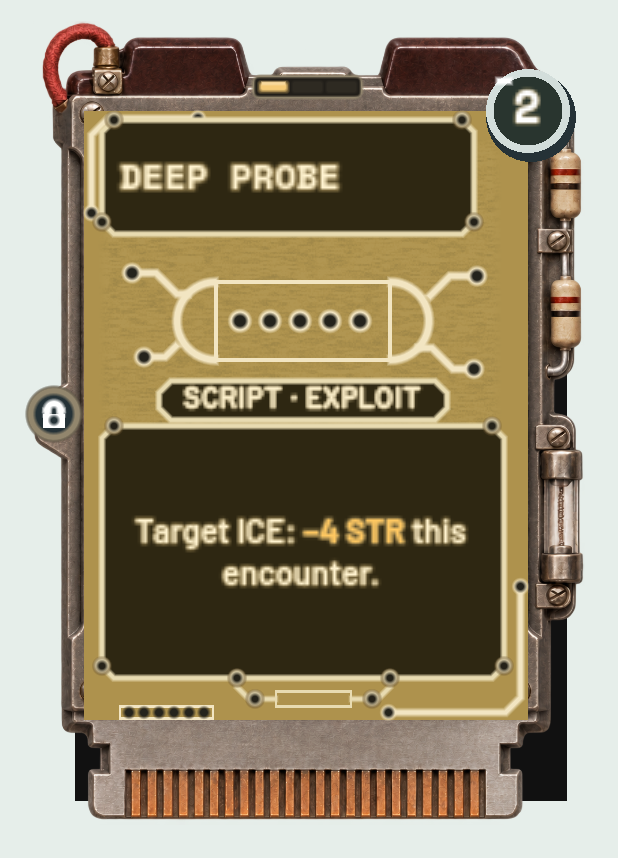
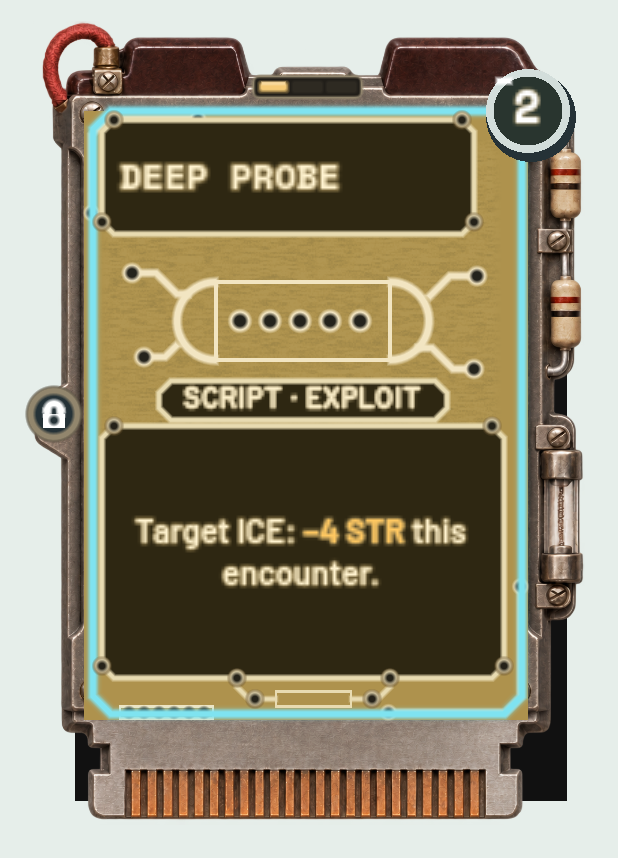
CARDS-002: cyan cache edge glow (review branch only)
Cached cards glow icy cyan #7FE3F0 along the board edge: solid when
held until played, dashed for a temporary cache. Drawn beneath the BW
cost, title and text panels; the ear padlock stays as the shape cue.
Fixture asserts presence, style, panel clearance and draw order.
Preview 0 failures at 3x and 1x; rules 361/0, ADP 17/0, SIGNAL/CARBON 671/0.

Claude-Session: https://claude.ai/code/session_019hKEHwHgBfGqbFMUM3xZXY

Changed region(s): [[0.123, 0.1212, 0.8608, 0.8485]]

diff --git a/docs/visual/fixtures/cards-002/README.md b/docs/visual/fixtures/cards-002/README.md
@@ -4,7 +4,7 @@
 
 **Status:** Design review, 2026-11-19. The fifth design is an alternate Rustler cartridge treatment. The review source is isolated from the playable build.
 
-![Glow study: text on dark solder-mask panels over the mustard board](iterations/PANOPTICON_Mustard_PCB_05_Glow_Mask.jpg)
+![Glow study with the cyan cache edge glow (bottom left: held; bottom middle: temporary)](iterations/PANOPTICON_Mustard_PCB_05_Cache_Edge_Glow.jpg)
 
 ## Current review version — glow study (2026-11-19, PROPOSED)
 
@@ -17,7 +17,7 @@ The designer found that dark text on bare mustard lacked contrast and asked whet
 - **Type stamp:** Routed Gothic, one centred line (`SCRIPT · EXPLOIT`) at 9 px, falling to 8 px if needed, on a small pill-shaped mask plate. The plate has no plated holes, so nothing touches the letters.
 - **Rules:** Barlow SemiBold, centred in a fixed 134 × 84 mask panel with traces, plated holes and the empty resistor footprint, at 11 px down to a 9 px floor. Numbers and their units are **Barlow Bold in phosphor amber** `#FFC861` (9.7:1 on the mask).
 - **Rarity:** a recessed light in the top exterior of the cartridge with three cells, filled left to right: one for Common, two for Uncommon, three for Rare. The card face omits the written rarity; the hover tooltip still names it.
-- **Cached** is never printed on the card. A padlock indicator is mounted on the cartridge's left ear, outside the board. A card held until played has a solid rim. A temporary cache breaks the rim into segments, one lit per remaining turn. The hover tooltip reads `CACHED` or `CACHED · TEMP (n turns)`.
+- **Cached** is never printed on the card. The board edge glows **icy cyan** `#7FE3F0`, a colour no rarity lamp or text uses. The ring is solid for a card held until played and dashed for a temporary cache. It sits on the board under the BW cost circle, the title and the text panels, so it crosses no text or cost. The padlock on the left ear stays as the shape cue, so cached is never shown by colour alone: solid rim when held, one lit rim segment per remaining turn when temporary. The hover tooltip reads `CACHED` or `CACHED · TEMP (n turns)`.
 
 | Rarity | Light | Example |
 |---|---|---|
@@ -58,6 +58,7 @@ The captures are at 3× hand size. [`captures/hand-size/`](captures/hand-size/) 
 10. [Top-edge rarity lights](iterations/PANOPTICON_Mustard_PCB_05_Rarity_Lights.jpg)
 11. [Review fixes: cache padlock, segmented lights, taller frame, bold numbers](iterations/PANOPTICON_Mustard_PCB_05_Review_Fixes.jpg)
 12. [Glow study: ivory text on dark solder-mask panels, amber numbers](iterations/PANOPTICON_Mustard_PCB_05_Glow_Mask.jpg)
+13. [Cache edge glow: cyan board-edge ring, solid or dashed, with the padlock](iterations/PANOPTICON_Mustard_PCB_05_Cache_Edge_Glow.jpg)
 
 ## Reproduce the latest preview
 
@@ -85,7 +86,7 @@ The capture fixture needs a display. It checks:
 - the fixed frame, the 9 px floor, centring and fit of the rules, and bold numbers;
 - that the type stamp is one line and clear of the frame;
 - that the title, type stamp and rules each sit on the dark mask, in glowing ivory, with every ink at least 4.5:1 on the mask and no plated holes on the type plate;
-- that `CACHED` never appears on the card face, and that the padlock appears only on cached cards, stays off the board, shows the right turn count and is named in the tooltip;
+- that `CACHED` never appears on the card face; that the padlock and the cyan edge glow appear only on cached cards; that the glow is solid when held and dashed when temporary, stays outside every text panel and draws beneath the BW cost; that the padlock stays off the board and shows the right turn count; and that the tooltip names the state;
 - that every card's rules text at AMP 0–3 fits the frame at 9 px, and every Rustler type stamp fits one line at 8 px.
 
 With the patch applied, the rules, ADP and SIGNAL/CARBON suites still pass (361/0, 17/0, 671/0).

diff --git a/docs/REDLINE_DEVELOPMENT_LOG.md b/docs/REDLINE_DEVELOPMENT_LOG.md
@@ -4,14 +4,6 @@
 
 **LOG-001 (2026-11-16):** entries from 2026-11-08 to 2026-11-14 are in `REDLINE_DEVELOPMENT_LOG_ARCHIVE.md`, unchanged. Keep this file under about 60 KB (HANDOFF, "How we work" 6).
 
-## 2026-11-17 — CARDS-001: instrument amber accents (Codex)
-
-**Commit tag:** `cards-001-amber`. Replaced neon yellow-green with warm instrument amber (`#D6B675`) for the shared highlight and printed numeric highlights. The brass/gauge reference fits the selected brown, olive, teal and oxide-red boards. BW badges, selection accents and shared HUD controls inherit the same colour. No rules or costs changed.
-
-**Interpretations to confirm:** exact amber hue is a visual proposal for designer review. PR #12 remains open.
-
-**Validation:** 357 rules checks and 625 cartridge UI checks pass; updated four-type PNG rendered from live Godot controls.
-
 ## 2026-11-17 — CARDS-001: glowing text instead of amber blocks (Codex)
 
 **Commit tag:** `cards-001-amber-glow`. Designer requested glowing amber text instead of highlighted backgrounds. Numeric rule text now uses warm amber ink (`#F2CD87`) with a faint translucent amber halo; removed rectangular fills. External BW badges use a dark instrument face and glowing amber numerals. Board textures stay visible.
@@ -423,3 +415,15 @@ LOG-001 moved the oldest dated entry to the archive unchanged: 2026-11-17 — CA
 **Interpretations to confirm:** mask colour and panel shapes; halo strength (alpha 0.32, radius 3–4); amber for numbers; the type stamp on its own plate rather than inside the rules panel.
 
 LOG-001 moved the oldest dated entry to the archive unchanged: 2026-11-17 — CARDS-001: selected board colours and Whirlwind Bloatware (Codex).
+
+## 2026-11-19 — CARDS-002 cache edge glow (Claude)
+
+**Designer question:** can cached show along the card's edge or border, as part of the card glowing in a different colour?
+
+**Changed (preview patch, `review/cards-002` only):** a cached card's board edge glows icy cyan `#7FE3F0` as a chamfered ring with a soft halo. It is solid when held until played and dashed for a temporary cache. The ring draws on the board, beneath the BW cost circle, title and text panels. The ear padlock stays as the shape cue. The fixture asserts that the glow appears only on cached cards, uses the right style, stays outside every text panel and draws beneath the cost.
+
+**Validation:** preview fixture 0 failures at 3× and 1×; rules 361/0, ADP 17/0, SIGNAL/CARBON 671/0 with the patch applied.
+
+**Interpretations to confirm:** cyan as the cache colour; dashed for temporary rather than showing turns left; keeping the padlock alongside the glow.
+
+LOG-001 moved the oldest dated entry to the archive unchanged: 2026-11-17 — CARDS-001: instrument amber accents (Codex).

diff --git a/docs/HANDOFF.md b/docs/HANDOFF.md
@@ -123,7 +123,7 @@ Per-step results and interpretations: [HALCYON_PLAYTEST3_IMPLEMENTATION.md](HALC
 | ID | Question | Where it came from | Status |
 |---|---|---|---|
 | NAME-002 (PROPOSED) | **Rename VITAE to SPARK?** Designer: VITAE "seems so out of place in this setting"; SPARK "works", to be reviewed later "to see how much it fits before committing it". Why SPARK: the stat is not health but how much of *you* the machine can't have. Every consciousness has a First Signal; the spark is that signal in you, and what the ’Pelago harvests for the synchronization (SIGNAL-001, ARCH-001). Hits dim it; at 0 your spark is taken. Period-true (radio spark gap). Samples: *SPARK 12 / 30*, *PULP 5 · SPARK −5*, NUL/REM "keep your spark low and your head lower." Considered and set aside: NERVE, TICKER, GRIT, PULSE (too close to PULP); runners-up STATIC, SPINE, INK. Optional extra: corporations name the same number in flavour copy only (HALCYON "Comfort Level", IRONWATCH "Wellness Index", LUCIDA "Restfulness"). Scope if approved: about 510 mentions in 21 docs, including LOCKED master entries (Vitae distinction, HUB-002 PATCH UP), and about 80 in code/data; Claude Code renames on screen with a guard test that VITAE never appears; no rule changes. | Designer, 2026-11-18 | WAITING (review later) |
-| CARDS-002 mustard cartridge | Review-only on `review/cards-002`. Latest: glow study, with ivory text and amber numbers on dark solder-mask panels over the mustard board, and the 2026-11-19 review fixes (exterior cache padlock, 1/2/3 rarity cells, 84 px rules frame with a 9 px floor). **Interpretations to confirm:** mask colour and panel shapes, halo strength, amber numbers, padlock and lamp cells. | [Review archive](visual/fixtures/cards-002/README.md) | **WAITING** for designer review; PROPOSED |
+| CARDS-002 mustard cartridge | Review-only on `review/cards-002`. Latest: glow study (ivory text and amber numbers on dark solder-mask panels) and a cyan cache edge glow (solid when held, dashed when temporary) with the ear padlock; also 1/2/3 rarity cells and an 84 px rules frame with a 9 px floor. **Interpretations to confirm:** mask colour and shapes, halo strength, amber numbers, cyan cache colour, dashed style for temporary, whether to keep the padlock. | [Review archive](visual/fixtures/cards-002/README.md) | **WAITING** for designer review; PROPOSED |
 | ARCH-NAMES-001 names | The nine island names are working copy: the designer will check them against real care homes later. | ARCH §4.0 | WAITING |
 
 ---

diff --git a/docs/REDLINE_MASTER_DESIGN.md b/docs/REDLINE_MASTER_DESIGN.md
@@ -100,6 +100,8 @@ Shared silkscreen `#F2E5C2` and contact holes `#24231C` stay outside names, illu
 
 **CARDS-002 glow study — Mustard PCB cartridge (2026-11-19, review branch only, PROPOSED).** *Designer feedback:* dark text on bare mustard lacks contrast; the text may need to glow off the board. *Study:* the title, type stamp and rules sit on dark solder-mask panels in `#2E2712` (4.96:1 against the mustard). Text prints in ivory `#FFF3D0` (13.4:1) with a soft zero-offset halo, and numbers print in Barlow Bold amber `#FFC861` (9.7:1). The bare board keeps only traces and stencil art.
 
+**CARDS-002 cache edge glow (2026-11-19, review branch only, PROPOSED).** *Designer question:* can cached show along the card's edge, as part of the card glowing in a different colour? *Study:* a cached card's board edge glows icy cyan `#7FE3F0`, solid when held until played and dashed for a temporary cache. The glow draws beneath the BW cost, title and text panels. The ear padlock stays as the non-colour cue.
+
 **VISUAL-APPROVALS-002 — Prototype art and working values approved (APPROVED, 2026-11-17).** The designer approved every item below, which had been waiting for review. Designer: "Okay, all those changes that you listed are all approved." Numbers stay tunable presentation values; approval means build from them, not that they can never change. Sources: the 2026-11-17 VIS-001, CHROME-001 and CARDS-001 entries in `REDLINE_DEVELOPMENT_LOG.md`.
 
 - **CHROME-001 (HALCYON encounter), commits 15ae99e–4c2135e:** the generated calm and hostile atrium art and the CAPTCHA/AUTO-RENEW appliance shells; six shared collage illustrations assigned by card role (no per-card art yet); a 20% reveal of the hostile atrium during Cracking; pearl-enamel ICE plaques (pearl `#EDF4F0`, slate `#20343B`, teal `#165B55`) that stay clean in Mask off; the layered silver rim, small Deco fan and placeholder HALCYON wordmark on mascots; mascot carriers at 82% with two ICE and 70% with three; a 2.5-second break confirmation in a header at the top of the screen.

diff --git a/docs/REDLINE_DEVELOPMENT_LOG_ARCHIVE.md b/docs/REDLINE_DEVELOPMENT_LOG_ARCHIVE.md
@@ -1909,3 +1909,11 @@ GENERALIST also has two stalls, counted separately from deaths. Mean end decks G
 **Changed:** tobacco-brown SCRIPT, earthy olive PROGRAM, muted blue-green PROTOCOL; direct light printing on real board-style textures. BLOATWARE now has the Whirlwind-inspired protective U-handle, paired tubes, open cage/stacked boards and oxide-red phenolic face. Names, costs and rules are live controls. TRACER/SPAM remain BLOATWARE with unchanged unplayability/clear/TRACE rules; both now use the same component-aware bounds as other cartridges. Cached Bloatware retains full rules and CACHED marker; optional corporate flavour footer yields space when cached. No white card text panels remain. A–D review labels denote the four types; source-reference letters A/C/D remain palette provenance.
 
 **Validation:** Godot 4.3 import, 357 rules checks and 170 Friendly Lie UI checks pass. Extended cartridge fixture passes 625 checks and covers all authored/compiled texts, both Bloatware examples including cached text, component bounds and a mixed-type hand. Selected older log entry appended unchanged to the archive under LOG-001. Asset sources/guide/status/HANDOFF and PNGs are updated. No card definitions, rarity weights, costs or gameplay values changed. PR #12 remains open for integrated review before merge.
+
+## 2026-11-17 — CARDS-001: instrument amber accents (Codex)
+
+**Commit tag:** `cards-001-amber`. Replaced neon yellow-green with warm instrument amber (`#D6B675`) for the shared highlight and printed numeric highlights. The brass/gauge reference fits the selected brown, olive, teal and oxide-red boards. BW badges, selection accents and shared HUD controls inherit the same colour. No rules or costs changed.
+
+**Interpretations to confirm:** exact amber hue is a visual proposal for designer review. PR #12 remains open.
+
+**Validation:** 357 rules checks and 625 cartridge UI checks pass; updated four-type PNG rendered from live Godot controls.
